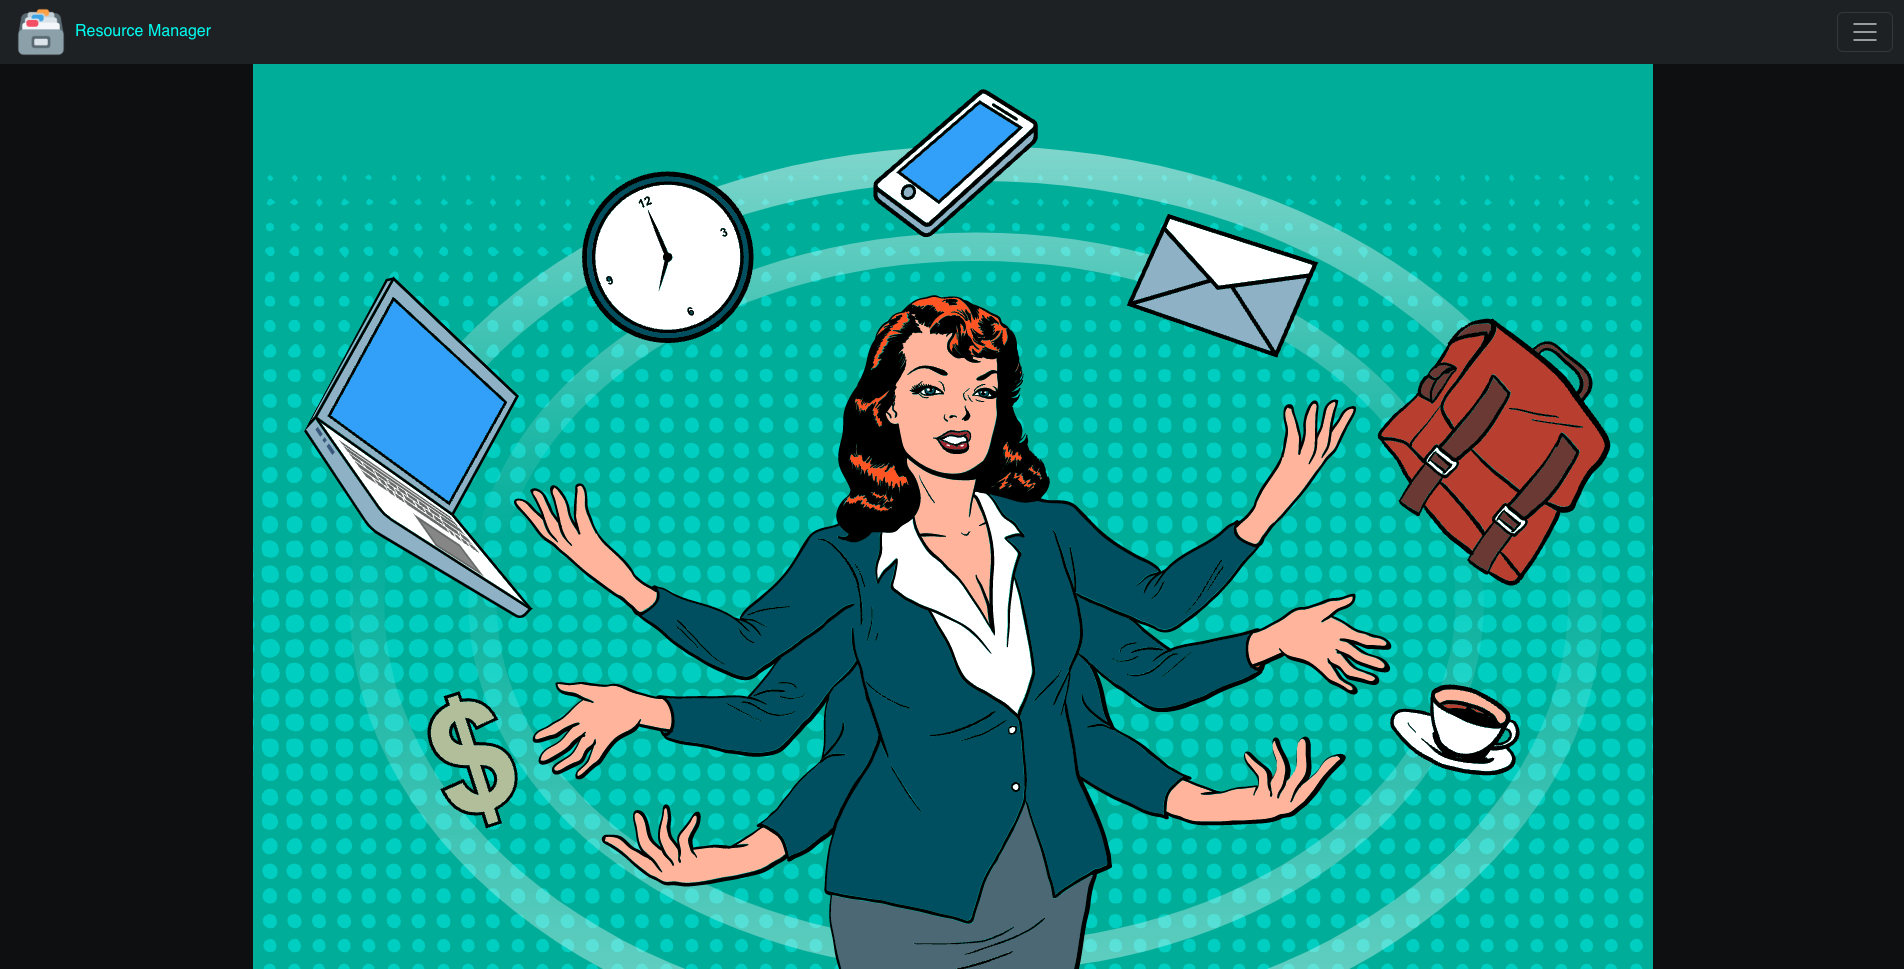
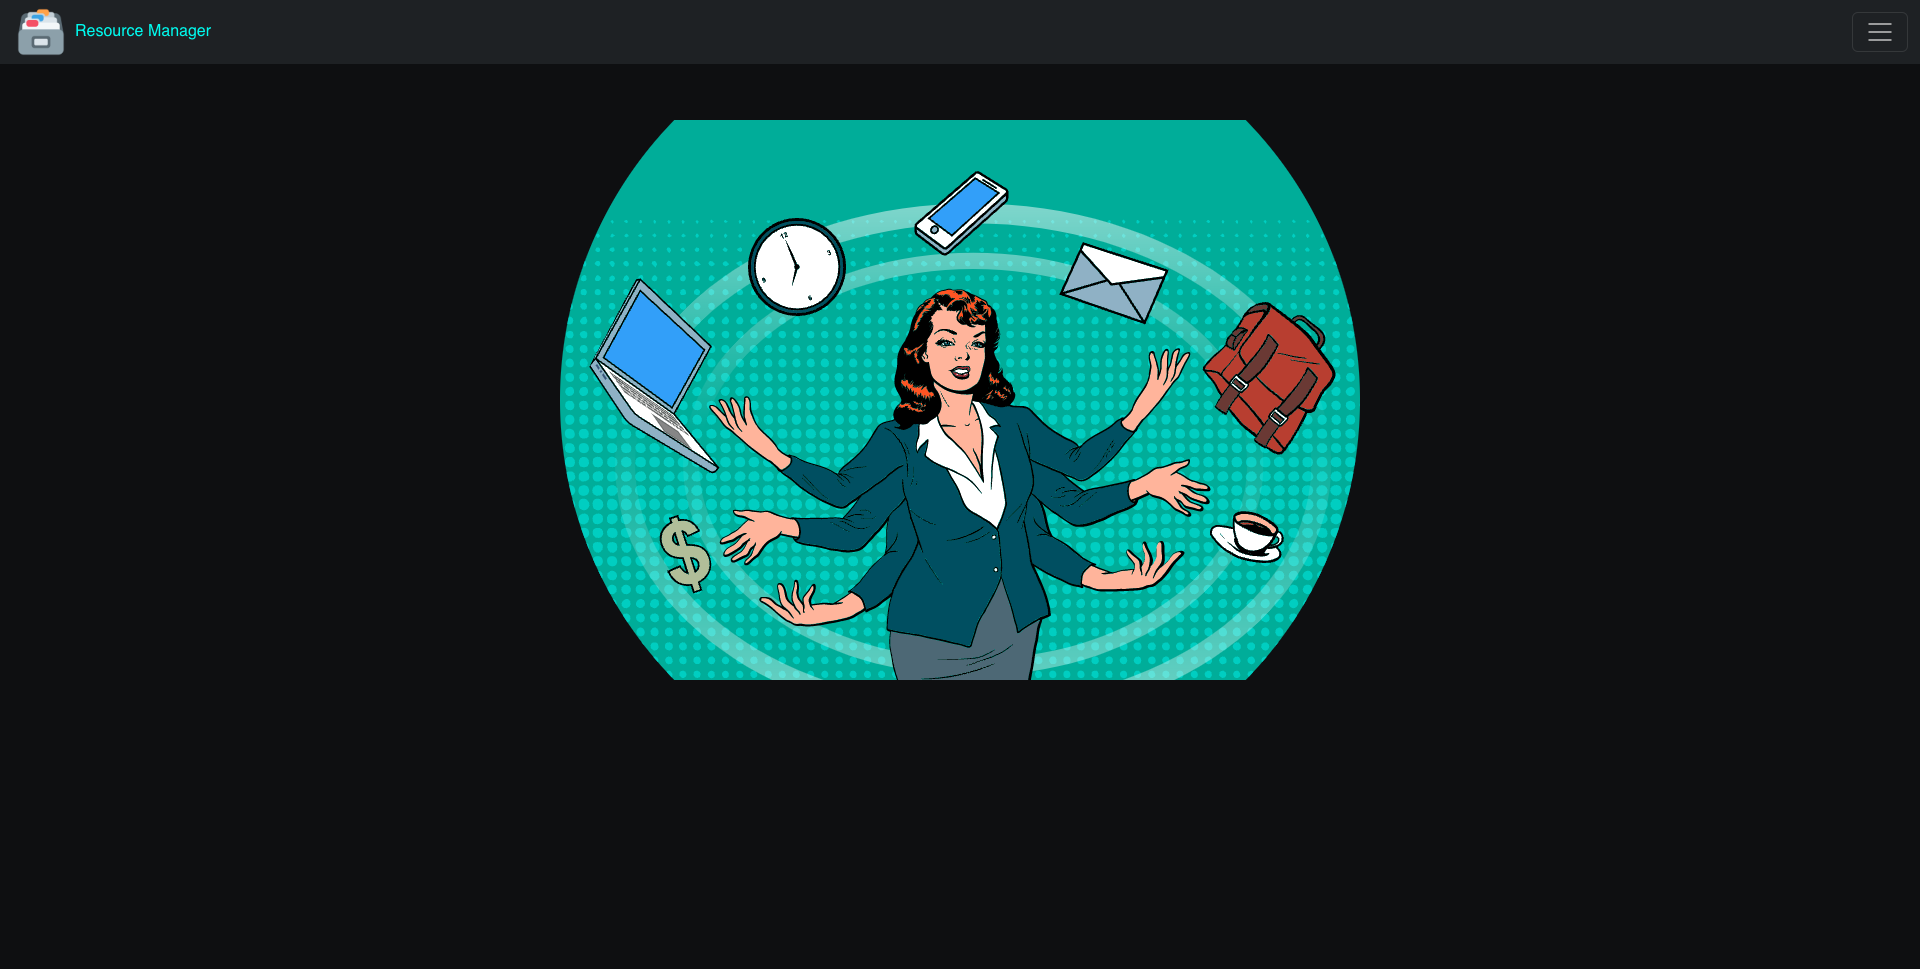
edit landing image

diff --git a/src/pages/Landing/Landing.module.css b/src/pages/Landing/Landing.module.css
@@ -1,8 +1,13 @@
-.content {
+/* .content {
   background-image: "/imgs/landingImage.svg";
   background-position: center center;
   background-repeat: no-repeat;
   background-attachment: fixed;
   background-size: cover;
-}
+} */
 
+.img {
+  border-radius: 500rem;
+  height: 50rem;
+  width: 50rem;
+}

diff --git a/src/pages/Landing/Landing.jsx b/src/pages/Landing/Landing.jsx
@@ -5,7 +5,7 @@ const Landing = () => {
   return (
     <>
       <div className={styles.content}>
-        <img src="imgs/landingImage.svg" alt="Landing" />
+        <img src="imgs/landingImage.svg" alt="Landing" className={styles.img}/>
       </div>
     </>
     
